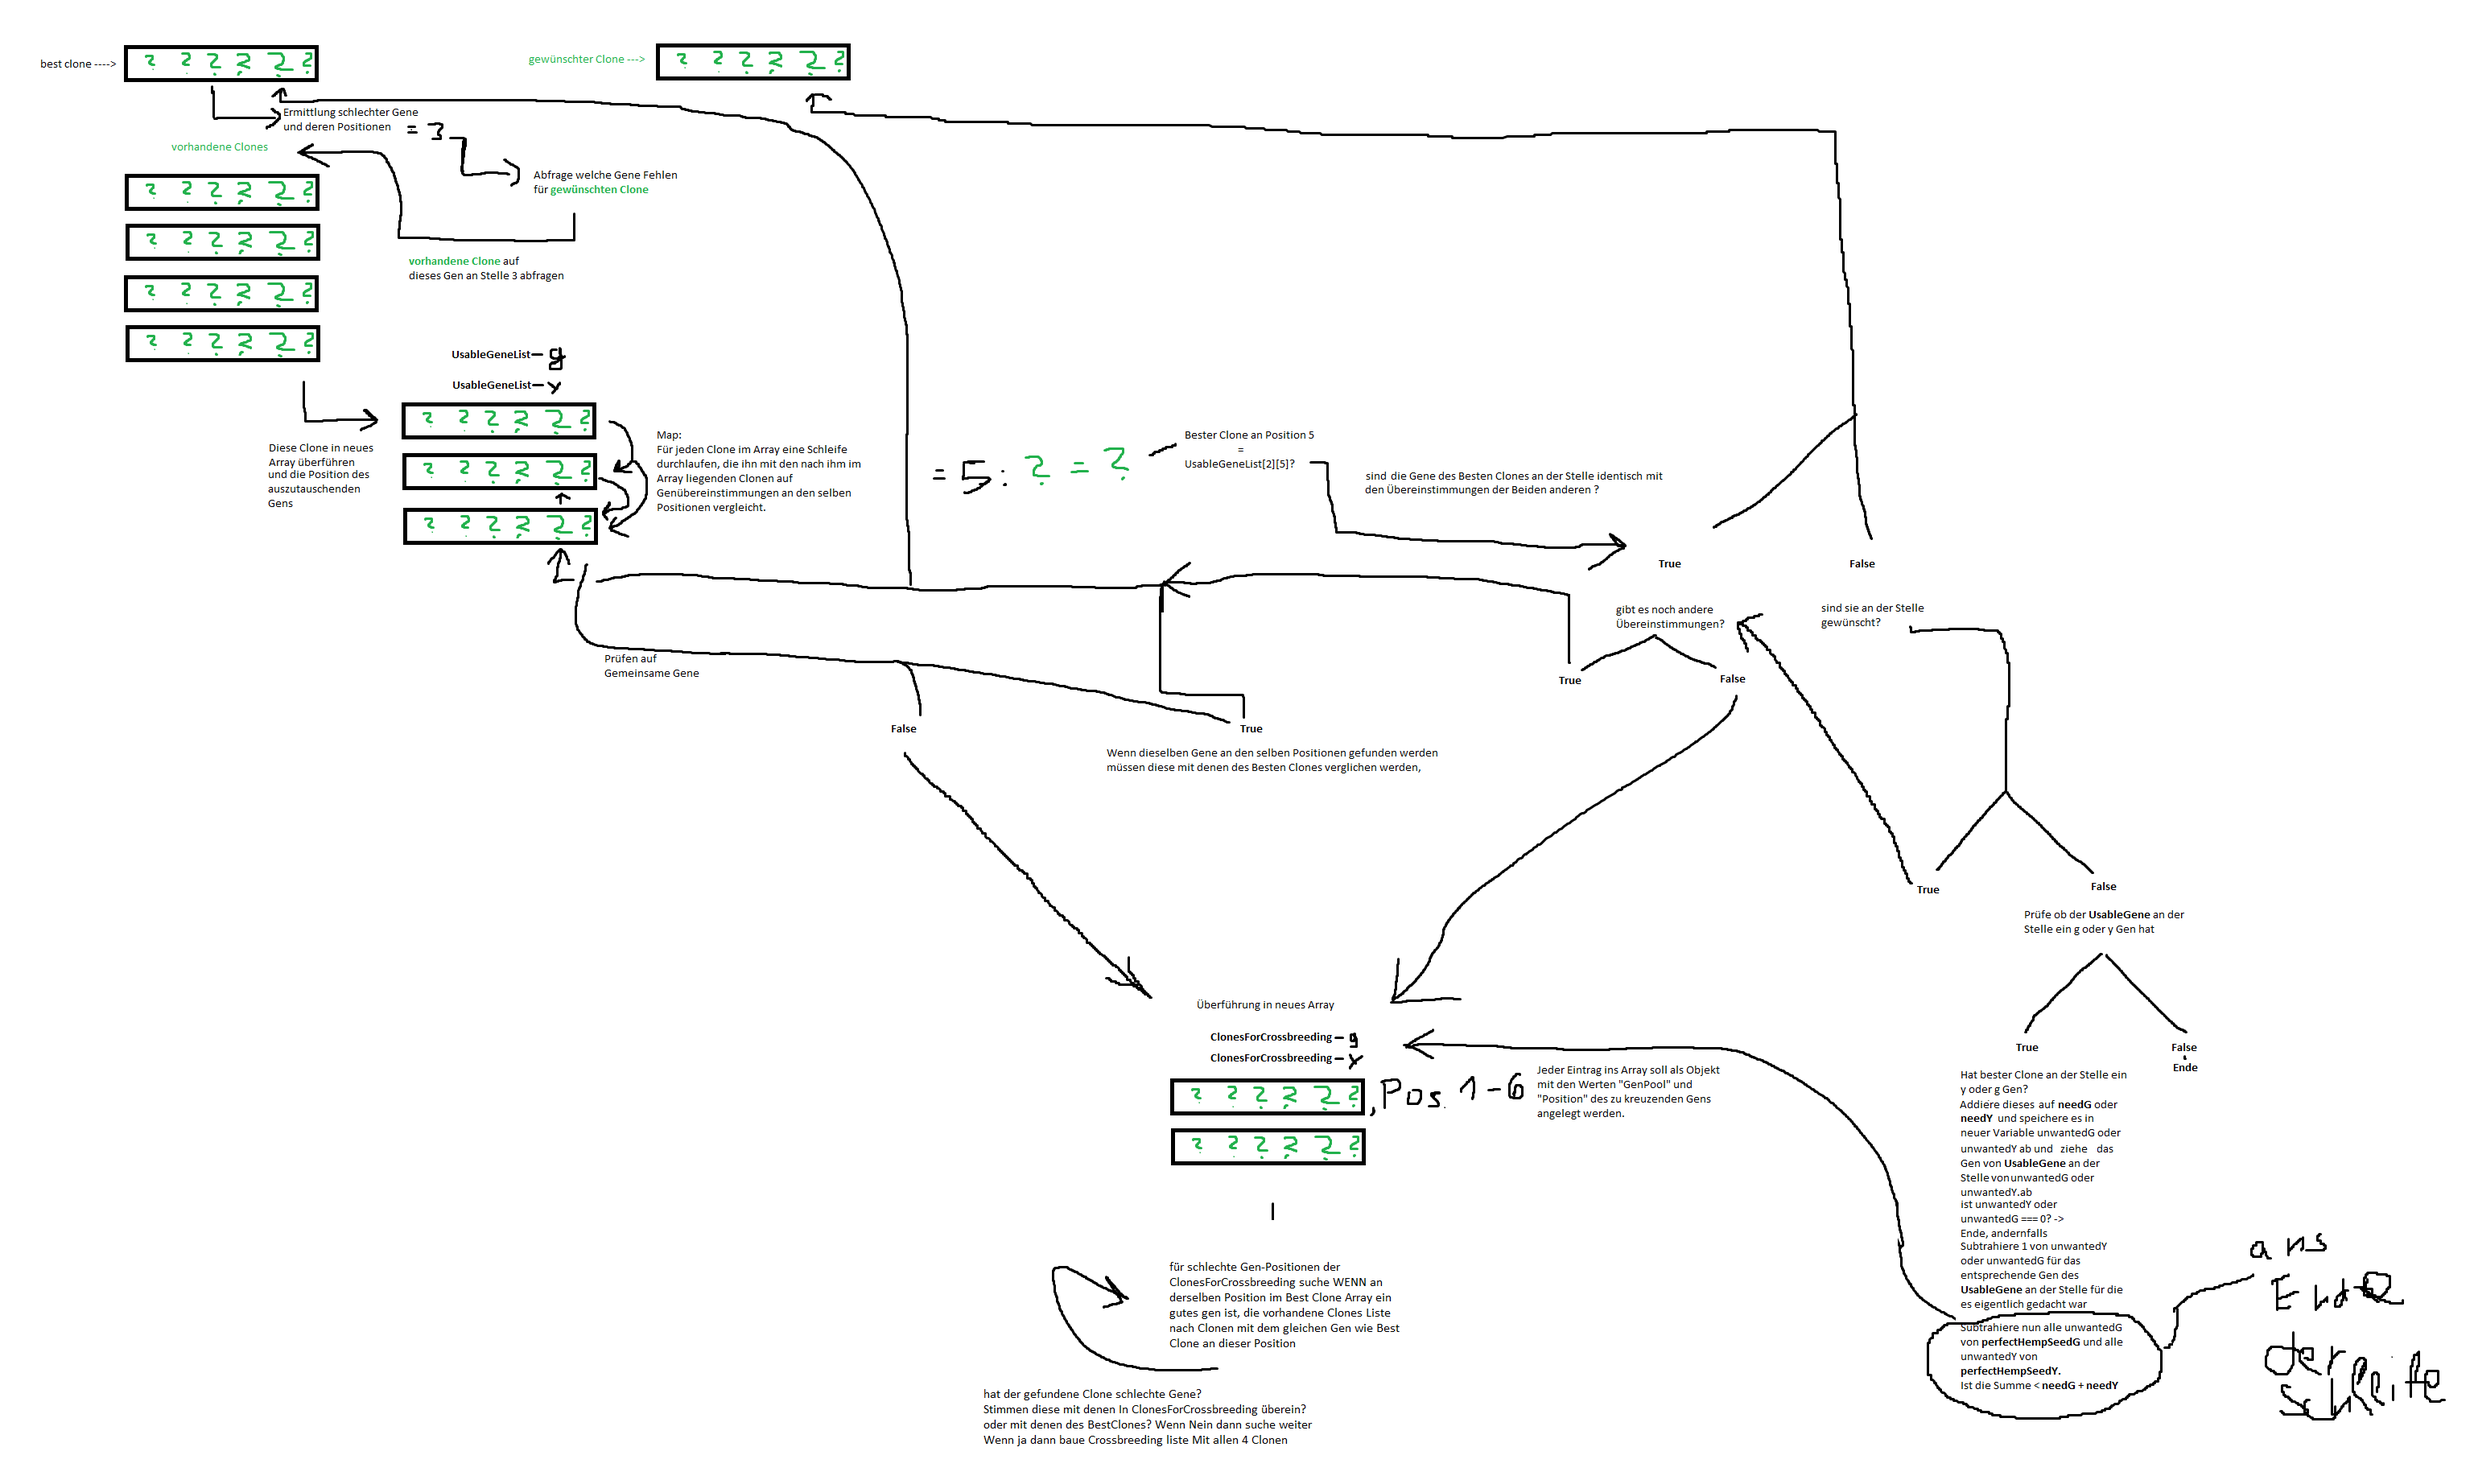
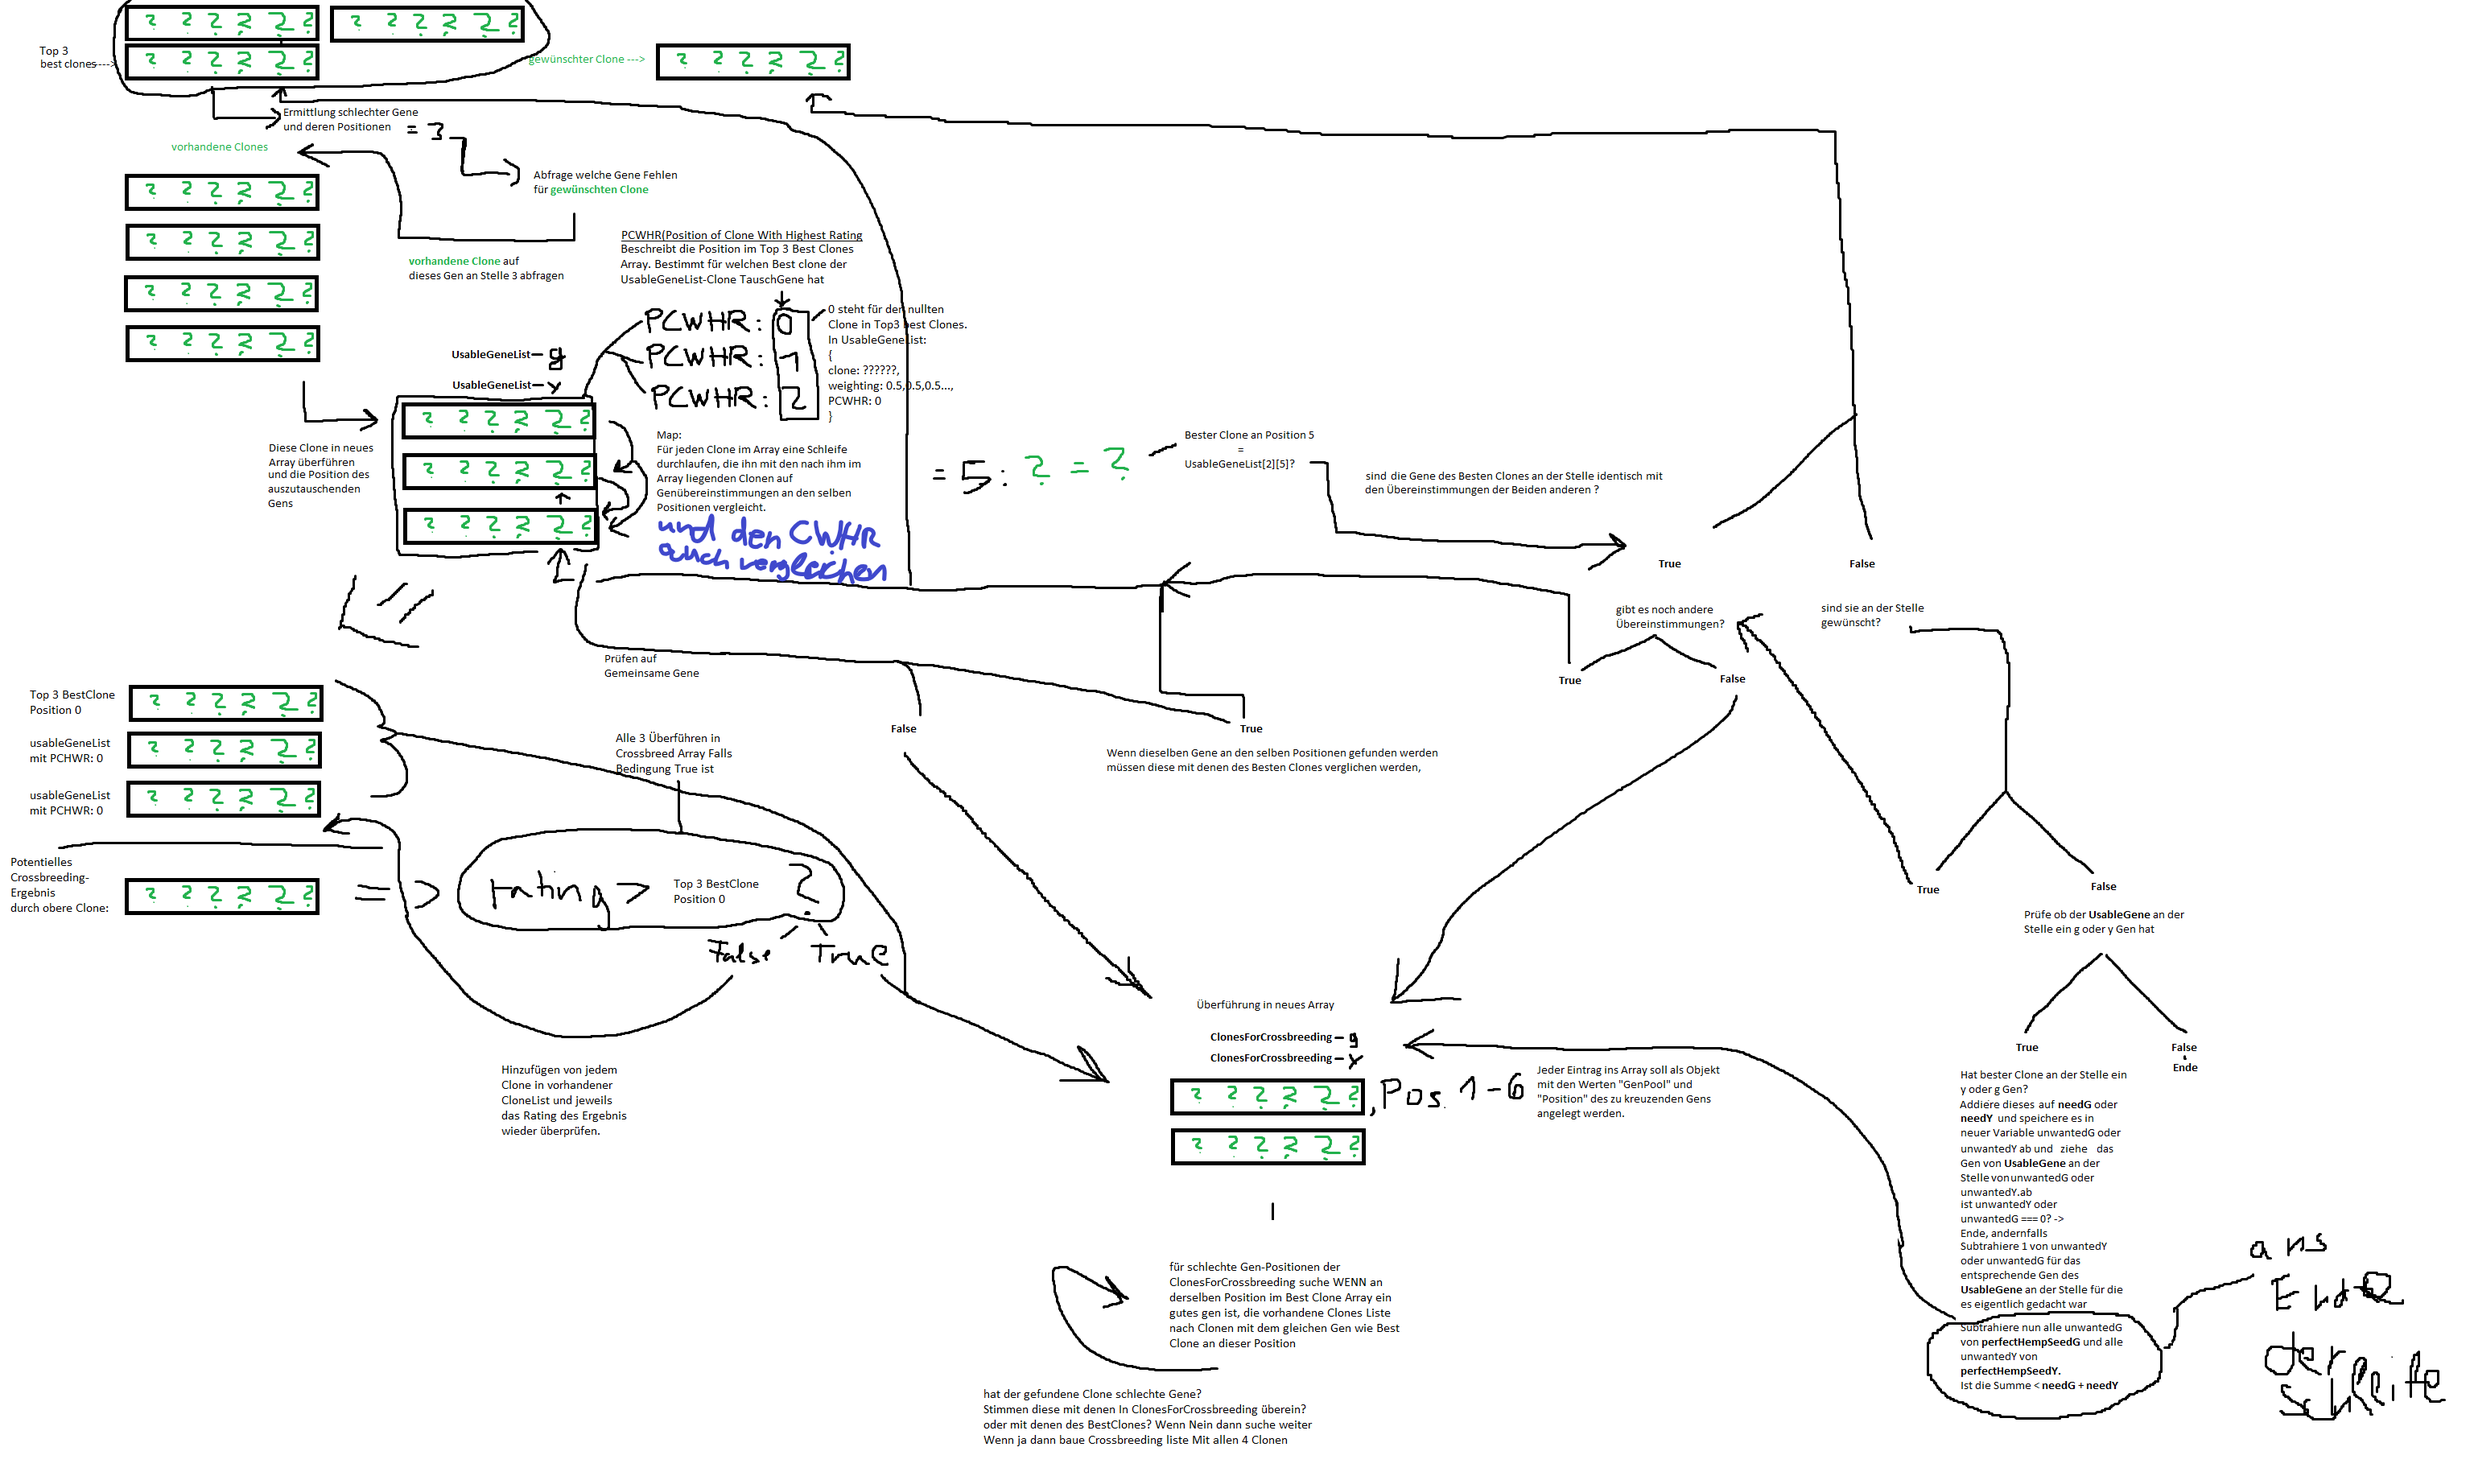
at 258 of function usableGeneList: if (geneCount < 0) { does not work because the loop is not working. The wanted result is that the usable gene list gets 12 entries for each exchangeable geneach exchangeable gene it has too many of at what ever position that may be possible

diff --git a/pages/index.js b/pages/index.js
@@ -37,9 +37,12 @@ export default function Home() {
   let highestRating = 0;
   let clone = [];
   let copy = [];
-  let positionsToChangeToG = "";
+  let positionsToChange = "";
   let cloneListCopy = undefined;
-
+  let findClonesForCrossbreedingG = [];
+  let findClonesForCrossbreedingY = [];
+  let needG = 0;
+  let needY = 0;
   // Warn if overriding existing method
   if (Array.prototype.equals)
     console.warn(
@@ -104,7 +107,10 @@ export default function Home() {
     giveGeneWeighting();
     rateClone();
     findBestClone();
-    findUsableClones();
+    findUsableClones(needG, "g");
+    findUsableClones(needY, "y");
+    findClonesForCrossbreeding(usableGeneList_g);
+    findClonesForCrossbreeding(usableGeneList_y);
   }
 
   function giveGeneWeighting() {
@@ -181,6 +187,8 @@ export default function Home() {
         cloneWithHighestRating = clones;
       }
     });
+    needG = perfectHempSeedG - cloneWithHighestRating.g;
+    needY = perfectHempSeedY - cloneWithHighestRating.y;
     console.log("genePool");
     console.log(genePool);
     console.log("cloneList");
@@ -193,137 +201,131 @@ export default function Home() {
     console.log(usableGeneList_y);
   }
 
-  function findUsableClones() {
+  function findUsableClones(geneCount, gene) {
     //how many G or Y Genes does the best Clone need
-    let needG = perfectHempSeedG - cloneWithHighestRating.g;
-    let needY = perfectHempSeedY - cloneWithHighestRating.y;
-    let iteration = "";
-    let stepIteration = 0;
-
     //If it needs both G and Y Genes it loops through the bad positions of the cloneWithHighestRating(CWHR)
     //for each bad gene Position of the CWHR it searches the "genePool" for g or y genes at the same position
-    /* yyyygg
-yyyggy
-yyggyy
-yggyyy
-ggyyyy
-gyyyyg
-gyyygy
-gyygyy
-gygyyy
-ygygyy
-ygyygy
-ygyyyg
-yygygy
-yygyyg
-yyygyg */
 
-    if (needG > 0) {
-      //Braucht der Clone G Gene?
+    //Braucht der Clone G Gene?
+    if (gene == "y") {
+      usableGeneList(usableGeneList_y);
+    } else {
+      usableGeneList(usableGeneList_g);
+    }
 
-      if (needY < 0) {
-        //falls der Clone zu viele, also mehr als 4, Y Gene hat, dann hat er keine schlechten Gene an diesen Positionen. Dann muss für jedes benötigte G-Gen ein beliebiges Y-Gen ersetzt werden.
-        needY = needY * -1; //negativ wird positiv
+    function usableGeneList(list) {
+      if (geneCount > 0) {
+        cloneListCopy = cloneDeep(cloneList); //create deep copies here to later maipulate their values without touching the originals.
+        for (let i = 0; i < list.length; i++) {
+          for (let j = 0; j < cloneListCopy.length; j++) {
+            if (list[i].clone.clone.equals(cloneListCopy[j].clone)) {
+              cloneListCopy.splice(j, 1); //if there has been a previous Call of this function (by adding a new Clone)
+            } //there might be usable Y Clones already. If so: remove them from the copied cloneList again
+          } //because the copy of the original will reinclude them every time we add a new Clone.
+        } //This would cause the function to find a match for the same Clone every time we iterate through the Copy.
+
+        let badGenePositionsCopy = cloneDeep(cloneWithHighestRating.positionBadGenes);
+        for (let j = 0; j < cloneWithHighestRating.positionBadGenes.length; j++) {
+          let currentBadGenePosition = badGenePositionsCopy[0];
+          badGenePositionsCopy.splice(0, 1); //throw current bad Gene Position out of the copy of the array,
+          for (let i = 0; i < cloneListCopy.length; i++) {
+            let currentGene = cloneListCopy[i].clone[currentBadGenePosition];
+            if (currentGene === gene) {
+              //so in case of a match of the y gene on the position we need
+              list.push({
+                position: currentBadGenePosition,
+                clone: cloneListCopy[i],
+              });
+
+              if (badGenePositionsCopy.length > 0) {
+                //we can search the same clone for other possible matches with the remaining bad Positions of the copy
+                if (needY > 1) {
+                  badGenePositionsCopy.map((otherBadGenePosition) => {
+                    if (cloneListCopy[i].clone[otherBadGenePosition] === gene) {
+                      list.push({
+                        position: otherBadGenePosition,
+                        clone: cloneListCopy[i],
+                      });
+                    }
+                  });
+                }
+              }
+              cloneListCopy.splice(i, 1);
+            }
+          }
+        }
+      }
+      if (geneCount < 0) {
+        //falls der Clone zu viele, also mehr als 4, Y/G Gene hat, dann hat er keine schlechten Gene an diesen Positionen. Dann muss für jedes benötigte G-Gen ein beliebiges Y-Gen ersetzt werden.
+        geneCount = geneCount * -1; //negativ wird positiv
 
         for (let i = 0; i < cloneWithHighestRating.clone.length; i++) {
+          console.log(cloneWithHighestRating.clone[i]);
           //jedes CWHR-Gen wird durchsucht
-          if (needY === 0) {
+          if (geneCount === 0) {
             return;
           }
-          if (cloneWithHighestRating.clone[i] === "y") {
-            //wenn es ein y ist
+          if (cloneWithHighestRating.clone[i] === gene) {
+            //An jeder Stelle an der es das entsprechende Gen hat ist ein potentieller Austausch mit anderen Clonen möglich.
             let cloneListCopy = cloneDeep(cloneList);
             let cloneAbleGPositions = [];
+            for (let j = 0; j < list.length; j++) {
+              for (let k = 0; k < cloneListCopy.length; k++) {
+                if (list[j].clone.clone.equals(cloneListCopy[k].clone)) {
+                  cloneListCopy.splice(j, 1); //if there has been a previous Call of this function (by adding a new Clone)
+                } //there might be usable Y Clones already. If so: remove them from the copied cloneList again
+              } //because the copy of the original will reinclude them every time we add a new Clone.
+            } //This would cause the function to find a match for the same Clone every time we iterate through the Copy.
 
-            cloneList.map((firstClone, index) => {
-              if (firstClone.clone[i] === "g") {
+            for (let l = 0; l < cloneListCopy.length; l++) {
+              if (cloneListCopy[i].clone[i] === gene) {
                 // wird die CloneList nach einem G-Gen an dieser Position durchsucht
-                cloneListCopy.splice(index, 1);
-                positionsToChangeToG = i; // wenn gefunden, wird die Position gespeichert der gefunde Clone wird aus der Liste entfernt
+                positionsToChange = i; // wenn gefunden, wird die Position gespeichert der gefunde Clone wird aus der Liste entfernt
 
                 //in neuer Liste wird nach weiterem G-Gen gesucht an selber Position.
-                console.log("cloneListCopy");
-                console.log(cloneListCopy);
-                cloneListCopy.map((secondClone) => {
-                  if (secondClone.clone[positionsToChangeToG] === "g") {
+                for (let j = 1; j <= cloneListCopy.length; j++) {
+                  if (cloneListCopy[j].clone[positionsToChange] === gene) {
                     //Wenn gefunden, werden beide Clone gespeichert und deren gemeinsame G-Position. Abfrage ob diese gemeinsame rote Gene haben fehlt!
-                    needY = needY - 1;
-                    cloneAbleGPositions.push({
+                    geneCount = geneCount - 1;
+                    /*                  list.push({
+                      position: otherBadGenePosition,
+                      clone: cloneListCopy[i],
+                    });
+                    list.push({
                       clone1: firstClone,
                       clone2: secondClone,
-                      position: positionsToChangeToG,
-                    });
-                    positionsToChangeToG = "";
+                      position: positionsToChange,
+                    }); */
+                    positionsToChange = "";
+                    /*                     cloneListCopy.splice(index, 1);
+                    cloneListCopy.splice(index, 1); */
                     return;
                   } else {
-                    if (
-                      cloneListCopy[cloneListCopy.length - 1] !== firstClone
-                    ) {
+                    if (cloneListCopy[cloneListCopy.length - 1] !== firstClone) {
                       //Wenn kein zweiter Clone gefunden wurde wird der entfernte Clone der Liste wieder hinzugefügt.
                       cloneListCopy.push(firstClone);
                     }
                   }
-                });
+                }
 
                 console.log("cloneAbleGPositions");
                 console.log(cloneAbleGPositions);
               }
-            });
+            }
           }
         }
       }
-
-      for (let i = 0; i < genePool.length; i++) {
-        cloneWithHighestRating.positionBadGenes.map((position) => {
-          if (genePool[i][position] === "g") {
-            usableGeneList_g.push({
-              position: position,
-              clone: cloneList[i],
-            });
-          }
-        });
-      }
     }
-    if (needY > 0) {
-      cloneListCopy = cloneDeep(cloneList); //create deep copies here to later maipulate their values without touching the originals.
-      for (let i = 0; i < usableGeneList_y.length; i++) {
-        for (let j = 0; j < cloneListCopy.length; j++) {
-          if (usableGeneList_y[i].clone.clone.equals(cloneListCopy[j].clone)) {
-            cloneListCopy.splice(j, 1); //if there has been a previous Call of this function (by adding a new Clone)
-          } //there might be usable Y Clones already. If so: remove them from the copied cloneList again
-        } //because the copy of the original will reinclude them every time we add a new Clone.
-      } //This would cause the function to find a match for the same Clone every time we iterate through the Copy.
+  }
 
-      let badGenePositionsCopy = cloneDeep(
-        cloneWithHighestRating.positionBadGenes
-      );
-      for (let j = 0; j < cloneWithHighestRating.positionBadGenes.length; j++) {
-        let currentBadGenePosition = badGenePositionsCopy[0];
-        badGenePositionsCopy.splice(0, 1); //throw current bad Gene Position out of the copy of the array,
-        for (let i = 0; i < cloneListCopy.length; i++) {
-          let currentGene = cloneListCopy[i].clone[currentBadGenePosition];
-          if (currentGene === "y") {
-            //so in case of a match of the y gene on the position we need
-            usableGeneList_y.push({
-              position: currentBadGenePosition,
-              clone: cloneListCopy[i],
-            });
-
-            if (badGenePositionsCopy.length > 0) {
-              //we can search the same clone for other possible matches with the remaining bad Positions of the copy
-              if (needY > 1) {
-                badGenePositionsCopy.map((otherBadGenePosition) => {
-                  if (cloneListCopy[i].clone[otherBadGenePosition] === "y") {
-                    usableGeneList_y.push({
-                      position: otherBadGenePosition,
-                      clone: cloneListCopy[i],
-                    });
-                  }
-                });
-              }
-            }
-            cloneListCopy.splice(i, 1);
-          }
+  function findClonesForCrossbreeding(list) {
+    for (let i = 0; i < list.length; i++) {
+      for (let j = 1; j <= list.length; j++) {
+        let gen1 = list[i];
+        let gen2 = list[j];
+        if (gen1 == gen2) {
+          console.log(gen1);
+          console.log(gen2);
         }
       }
     }
